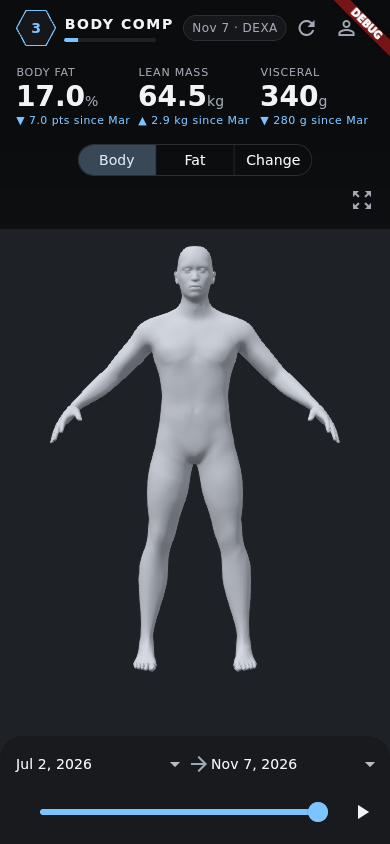
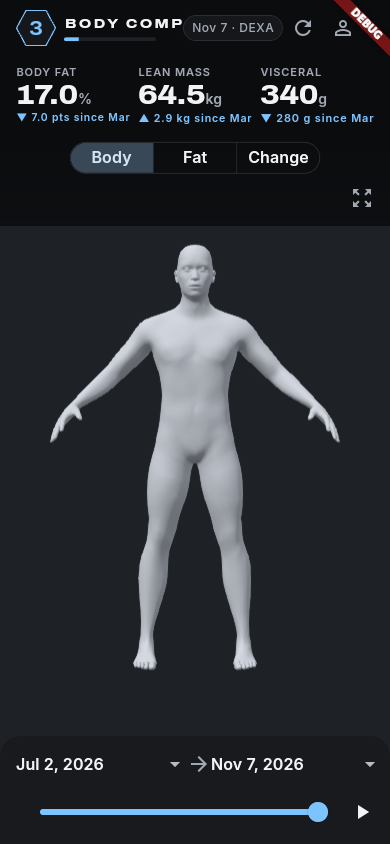
Use the design system's type scale on home and retake screenshots
Home and the body view drop their font weight and spacing overrides: the
wordmark uses AppTheme.wordmark, numbers use the Archivo text styles as
they are. Screenshots retaken with the new fonts and tokens.

Claude-Session: https://claude.ai/code/session_01881r6wStWWazdPF3GVtggV

diff --git a/app/lib/home/home_page.dart b/app/lib/home/home_page.dart
@@ -139,7 +139,6 @@ class _Header extends StatelessWidget {
   Widget build(BuildContext context) {
     final l10n = context.l10n;
     final tokens = context.tokens;
-    final textTheme = Theme.of(context).textTheme;
     final s = summary;
     return Padding(
       padding: const EdgeInsets.fromLTRB(
@@ -165,10 +164,8 @@ class _Header extends StatelessWidget {
                   child: Text(
                     l10n.appTitle.toUpperCase(),
                     maxLines: 1,
-                    style: textTheme.titleSmall?.copyWith(
+                    style: AppTheme.wordmark.copyWith(
                       color: tokens.textPrimary,
-                      fontWeight: FontWeight.w800,
-                      letterSpacing: 1.6,
                     ),
                   ),
                 ),
@@ -224,8 +221,8 @@ class LevelBadge extends StatelessWidget {
           child: Center(
             child: Text(
               '$level',
-              style: Theme.of(context).textTheme.titleSmall
-                  ?.copyWith(color: tokens.lean, fontWeight: FontWeight.w800),
+              style: Theme.of(context).textTheme.titleLarge
+                  ?.copyWith(color: tokens.lean),
             ),
           ),
         ),
@@ -462,10 +459,7 @@ class _Stat extends StatelessWidget {
           label.toUpperCase(),
           maxLines: 1,
           overflow: TextOverflow.ellipsis,
-          style: textTheme.labelSmall?.copyWith(
-            color: tokens.textSecondary,
-            letterSpacing: 0.8,
-          ),
+          style: textTheme.labelSmall?.copyWith(color: tokens.textSecondary),
         ),
         FittedBox(
           fit: BoxFit.scaleDown,
@@ -477,8 +471,6 @@ class _Stat extends StatelessWidget {
                   : (value * scale).toStringAsFixed(digits),
               style: textTheme.headlineMedium?.copyWith(
                 color: tokens.textPrimary,
-                fontWeight: FontWeight.w700,
-                height: 1.15,
               ),
               children: [
                 if (value != null)

diff --git a/packages/app_body/lib/src/presentation/body_view.dart b/packages/app_body/lib/src/presentation/body_view.dart
@@ -509,10 +509,8 @@ class _Badge extends StatelessWidget {
     ),
     child: Text(
       text,
-      style: Theme.of(context).textTheme.labelLarge?.copyWith(
-        color: context.tokens.onAccent,
-        fontWeight: FontWeight.w700,
-      ),
+      style: Theme.of(context).textTheme.labelLarge
+          ?.copyWith(color: context.tokens.onAccent),
     ),
   );
 }
